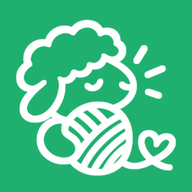
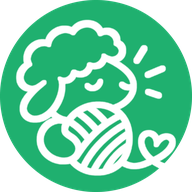
Agenda: ícono de la app redondo como las otras casas (#436)
Claude-Session: https://claude.ai/code/session_01U9SAsfVct6L94yoocG63si

diff --git a/herramientas/generar_iconos_app.py b/herramientas/generar_iconos_app.py
@@ -57,7 +57,7 @@ if __name__ == '__main__':
         circulo(dibujo(1024, color, 0.86 if casa == 'agenda' else 0.76)).resize((256, 256), Image.LANCZOS).save(os.path.join(R, fav), optimize=True)
         dibujo(720, color, 0.86 if casa == 'agenda' else 0.74).resize((180, 180), Image.LANCZOS).convert('RGB').save(os.path.join(R, apple), optimize=True)
         for lado in (192, 512):
-            if casa == 'agenda': dibujo(1024, color, 0.84).resize((lado, lado), Image.LANCZOS).save(os.path.join(R, 'img', 'app', f'icono-{casa}-{lado}.png'), optimize=True)   # 29-oct, pedido de Sara: Windows lo muestra cuadrado, así que lleno y con la ovejita más grande
+            if casa == 'agenda': circulo(dibujo(1024, color, 0.84)).resize((lado, lado), Image.LANCZOS).save(os.path.join(R, 'img', 'app', f'icono-{casa}-{lado}.png'), optimize=True)   # 29-oct: redondo, esquinas transparentes, ovejita grande (pedido de Sara)
             else: circulo(dibujo(1024, color, 0.76)).resize((lado, lado), Image.LANCZOS).save(os.path.join(R, 'img', 'app', f'icono-{casa}-{lado}.png'), optimize=True)
         dibujo(1024, color, 0.58).resize((512, 512), Image.LANCZOS).convert('RGB').save(os.path.join(R, 'img', 'app', f'icono-{casa}-maskable-512.png'), optimize=True)
         base = circulo(dibujo(1024, color, 0.86))

diff --git a/CLAUDE.md b/CLAUDE.md
@@ -21,7 +21,7 @@ Sitio estático en HTML/CSS/JS publicado con GitHub Pages desde la rama `main` (
 - **Agenda para tejedoras, rediseño del 27-oct-2026 (pedido de Sara; antes «Agenda de Rosina»; la dirección sigue siendo `/agenda-rosina.html`):** el código nuevo está en `js/agenda/` y `css/agenda-fichas.css`, y se conecta con el script en línea de `agenda-rosina.html` por `window.lrAgendaNucleo` (tablas, datos, guardar, leerFecha) y el evento `agenda-guardada`. **Los datos siguen con los mismos nombres de siempre** (`ag-p1-cliente`…, en `localStorage.rosinaAgenda`), así el calendario, el tablero, las copias, la nube y los importadores no cambian. Piezas: `fichas.js` (cada renglón de una tabla es una **ficha desplegable**: se ve solo la que se llena, las demás quedan cerradas en lista con su título y etiquetas; «Agregar ficha», borrar sube las siguientes; estados y alarmas de pedidos y proyectos; agujas con fecha de compra y sugerencia de cambio; lo cumplido pasa al final; impresión en blanco con 3 fichas vacías; configuración por tabla en `LISTAS`), `formas.js` (casillas de texto ampliables + **versiones**: prioridades del mes, ficha de proyecto, semana, feria y patrón propio guardan cada mes/proyecto/semana como ficha con su nombre en `datos._ver`; la que se ve sigue en los nombres de siempre; el mes y la semana se proponen solos pero no se guardan hasta que la persona escribe), `ventas.js` (ventas por mes: el mes sale de la fecha de cada venta, totales del mes elegido), `anio.js` (Mi año tejiendo: cada mes muestra lo último escrito y abre a página entera), `portada.js` (portada imprimible: fondos de flores, hojas, madejas, Rosina y liso dibujados en el código; nombre de «Esta agenda es de»), `voz.js` (escribir hablando con la Web Speech API del navegador; el audio lo procesa Google/Apple, no Lana Rosa; aviso previo y párrafo en `politicas.html#datos`), `patron.js` (Diseña tu patrón en 7 pasos, vista previa, imprimir y bajar .txt), `tinta.js` (lápiz: trazos con Pointer Events guardados en `datos._tinta`; lápiz digital y mouse dibujan, el dedo solo mueve la página salvo «Dedo»; **falta probar con un lápiz digital real en iPad y Samsung**), `merceria.js` (bloques `.oferta-merceria` que ofrecen materiales reales de la Mercería y los agregan a la lista de compras: si no hay existencias dice «Pronto» y lleva al catálogo y al WhatsApp), `xlsx.js` + `exportar.js` (Exportar a Excel: un libro .xlsx con una hoja por cada hoja con datos, sin librerías). Hojas nuevas: Portada, Mis ideas y Diseña tu patrón (38 hojas desde el 28-oct; si se suma otra, actualizar «Hoja 1 de 38» y «Ver las 38 hojas» en `agenda-rosina.html`). Pruebas con sesión simulada: `herramientas/pruebas/probar_agenda_fichas.py`, `_versiones.py`, `_listas.py`, `_nuevas.py`, `_tinta.py` (ayudas en `agenda_util.py`). **Módulos del 28-oct-2026:** `meses.js` (ventas y gastos por mes), `pedidos.js` (total de la compra = cantidad × valor unidad + envío, saldo y WhatsApp; **«Valor total» se ocultó el 29-oct a pedido de Sara** —era igual a «Total compra»—: el campo `ag-pN-precio` sigue existiendo oculto con el valor de los productos sin envío, y el calendario, el tablero y las deudas usan `totalcompra`); **clienta automática (29-oct, pedido de Sara):** al salir del campo nombre o teléfono de un pedido, `pedidos.js` la registra en `tabla-clientas` (nombre, WhatsApp y «desde» de hoy) si no está (mismo nombre sin tildes ni mayúsculas, o mismo teléfono) y le completa el WhatsApp si le faltaba, `planeador.js` (hoja «Planeador del día»: agrupa lo agendado de `window.lrAgenda.eventos()` y guarda tareas/notas en `datos._dias`; enlaces gratis a Google Calendar; la sincronización con la cuenta está en la tarjeta de `google-calendar.js`), `dibujo.js` (lienzos de dibujo y hoja de puntos en `datos._dib`/`_puntosN`; fotos reducidas a 760 px), `muestras.js` (muestras de lana desde la paleta de la Mercería) y `prendas.js` (prendas a medida: tallas XS–XL de referencia, cálculos y SVG de maniquí y esquema). La paleta es la página `/merceria/paleta-de-colores/` con `obtener_paleta_merceria()` (migración 32, pública a propósito). Pruebas `probar_agenda_negocio/dibujo/planeador/prendas.py`. **Aprende y compra + promociones propias (28-oct-2026, a pedido de Sara):** hoja `#aprende-compra` (`ecosistema.js`): pedir clase personalizada (arma un mensaje de WhatsApp con tema, nivel, personas, horas y horarios; valor estimado = `PRECIO_HORA` $25.000 × horas × personas, el mismo de `/academy/`: si cambia allá, cambiarlo en `ecosistema.js`), cursos virtuales (hoy «Muy pronto»; cuando haya, llenar `CURSOS` en `ecosistema.js`), patrones comprados con descarga (el módulo de cuenta de `agenda-rosina.html` expone `lrComprasPatrones`, `lrComprasEstado` y `lrDescargarPatron`; usa `mis_compras_patrones` y la función `descargar-patron`), patrones a la venta (categoría «Patrones» de `obtener_merceria_web`), YouTube y «Todo Lana Rosa». `promo.js`: bloques `.promo-eco` (`data-hoja`, `data-cuantas`, `data-modo="todas"`) con tarjetas del ecosistema que rotan cada día; catálogo `PROMOS` dentro del archivo; evento de medición `promo_agenda_click` (promo, hoja). Hoy van en Planeador, Portada, Mis ideas y Lista de compras (las hojas que se propusieron como gratis) y no se imprimen. Prueba: `probar_agenda_ecosistema.py`. **Google Calendar se volvió a encender el 29-oct-2026** (ver arriba). **Desde el 29-oct-2026 la agenda está ABIERTA PARA TODOS con su cuenta (`AGENDA_EN_VENTA = true`, decisión de Sara; textos de Academy, hub de Rosina, políticas y `llms.txt` cambiados a «gratis con tu cuenta»; `?gratis=1` muestra el modo de hojas gratis solo en esa visita).** Lo que sigue describe el mecanismo de puerta, que queda listo por si se vuelve a cerrar o se vende. **Puerta de la agenda: «hojas gratis» + agenda completa en construcción (28-oct-2026, decisión de Sara):** la agenda NO está en acceso libre completo: mientras `AGENDA_EN_VENTA = false` (script al inicio de `agenda-rosina.html`) el público (con cuenta, como siempre) ve solo las hojas gratis —`HOJAS_GRATIS` en el script «Modo hojas gratis», justo antes del script principal: Planeador del día, Portada, Aprende y compra, Mis ideas y Lista de compras, con promociones del ecosistema— y un aviso «La agenda completa, en construcción» (`#agenda-aviso-completa`, `.indice-construccion`, `.menu-aviso`). Las demás hojas siguen en la página pero pierden la clase `hoja-agenda` y ganan `hoja-bloqueada` (oculta, no se abre ni se busca ni se imprime); los textos que solo valen con la agenda completa llevan `data-completa`. Quien abre `/agenda-rosina.html?avance=1` la ve completa (queda activado en ese navegador; `?avance=0` lo quita). **Acceso previo por cuenta (28-oct-2026, pedido de Sara):** quien entra con un correo de la tabla `agenda_acceso_previo` (migración 35; solo lectura de su propia fila por seguridad de filas, sin funciones) ve la agenda completa: `js/agenda/acceso.js` lo consulta, guarda la marca `lrAgendaAcceso` en el dispositivo (solo vale con sesión guardada y se vuelve a comprobar en cada visita) y recarga la página una vez; hoy está `jennifer7610@gmail.com`. Para agregar o quitar a alguien: tabla en el panel de Supabase (correo en minúsculas). Prueba: `probar_agenda_acceso.py`. Para cambiar qué hojas son gratis, editar `HOJAS_GRATIS` (y marcar `data-gratis` en el `<article>`, solo informativo). Para ponerla a la venta: decidir cómo se cobra, poner `AGENDA_EN_VENTA = true` (o una compuerta por compra), volver a cambiar los textos «próximamente» (academy, recursos, hub de Rosina, llms.txt, políticas). Las pruebas activan la vista con `lrAgendaAvance` (ver `agenda_util.py`).
 - **Rosina en la agenda apunta a Academy (29-oct-2026):** el botón «Conocer a Rosina» y el enlace del pie de la agenda llevan al hub de Rosina de Academy (`/academy/rosina/`, «Rosina: tutoriales y recursos»), no al de la Tienda (`sincronizar_encabezado.py`: `universo_href['agenda']`). **Cuarta casa: Agenda (29-oct-2026, a pedido de Sara):** `agenda-rosina.html` es la casa `agenda` (verde vivo `#12A66E`/`#0C8556` en botones, `--casa-t1/t2` verdes al final de `css/comun.css`, que además copia para `agenda` todas las reglas de `academy`; si se agrega una regla de Academy a `comun.css`, copiarla para `agenda`). En `sincronizar_encabezado.py`: `CASAS`, `CASA_DE`, `CLASE['agenda']='g-agenda'`, `MENUS['agenda']` (Mi agenda, Aprende y compra, Material gratis de Rosina, Sobre nosotras, Ayuda), `MOVIL['agenda']`, `LOGO`/`LOGO_IMG` (`img/logo-agenda-360.webp`, lo genera `herramientas/generar_logo_agenda.py`), `ICONOS`, `APP`, `PIE_SIMPLE`, `CASAS_ICONO` (📅) y `logo_pie` (logo animado del pie igual al de las otras casas, con «Agenda» en verde claro: `herramientas/logo-animado/componente-agenda.html`, lo genera `generar_logo_animado.py`; desde el 29-oct-2026). Sale en «Nuestras casas» del pie de todas las páginas y como cuarta tarjeta de «Explora el universo Lana Rosa» del inicio. La agenda ya no lleva la barra «Rosina» (sigue en el Rincón de Rosina, que es de Academy). Íconos de las 4 casas: **redondos y con la ovejita grande** (`generar_iconos_app.py`, fuente `herramientas/iconos-app/ovejita-256.png`; verde de la agenda `#1FB06F`).
 - **Fondos de la Portada y cinta de las hojas de la agenda (29-oct-2026, a pedido de Sara):** seis opciones en la Portada: Flores, Hojas, Madejas, Rosina y amigos, Ovejitas y Liso. Los originales horizontales que pasó Sara están en `herramientas/agenda-fondos/originales/` y `herramientas/generar_fondos_agenda.py` genera en `img/agenda/`: la imagen de la **Portada** (`fondo-<f>.webp`, siempre con la forma exacta de la hoja carta 8,5 × 11 para llenar toda la hoja con `background-size: cover`: las acuarelas y los dibujos de madejas se giran a vertical y se unen la parte de arriba y la de abajo —el centro es papel vacío y lo tapa la tarjeta—, por donde la costura corte menos dibujos; los patrones «Rosina y amigos» y «Ovejitas» se rearman: `portada_patron` recorta los dibujos enteros del original y los reparte, más pequeños, en una hoja carta con semilla fija), su miniatura `-mini` y la **cinta** `fondo-<f>-borde.webp`. Si la persona elige un fondo, **todas las hojas** (`#agenda[data-fondo-hojas]` en `css/agenda-fichas.css`) llevan una **cinta delgada pegada por los cuatro lados** (pedido de Sara: «una cinta delgada, que se vea delgada»): un anillo con `border-image` (`slice` 40 = `T` del script; `round`), esquinas en ángulo, líneas finas en las orillas y una sombrita; mide 18 px en computador, 16 en tablet y 12 en celular (`--bw`) y siempre es menor que el relleno de la hoja (28 px), así el contenido no se mueve; se imprime. La cinta se arma así (pedido de Sara, 29-oct: «imágenes más claras, sin desenfoque, y más pequeñas para que se vean completas las hojas, las flores, las madejas»): en los marcos (flores, hojas, madejas) es una **guirnalda de dibujos sueltos y enteros** (cada flor, hoja, madeja, tijera, marcador… se recorta con una caja de `SELLOS` en `generar_fondos_agenda.py`, se limpia lo que no es suyo y se reduce a 22–34 px; las madejas que el borde de la imagen corta —la azul y la amarilla— se completan reflejándolas) y en los patrones con recortes cuyos extremos no cortan dibujos (los animales siempre derechos y enteros); todo va mezclado con el crema (`DESVANECIDO` = 0,42: más claro, no color pleno) y **sin desenfoque**; las líneas de las orillas y las esquinas quedan nítidas. Si se cambia una imagen de `originales/`, revisar las cajas de `SELLOS`. «Liso» no lleva cinta. La clave `rosina` (antes un collage de stickers) ahora es «Rosina y amigos». **Las imágenes de los fondos nuevos son de IA (ChatGPT/Gemini): mismos términos de uso por verificar que las demás.** La imagen «anime» **no se usa**: sus personajes parecen de series con derechos de autor (Gojo, Kaneki, el protector de Naruto). Para sumar un fondo: archivo en `originales/`, línea en `FONDOS` de `generar_fondos_agenda.py`, `FONDOS` e `IMAGENES` en `portada.js` y una regla `--cinta` en `agenda-fichas.css`.
-- **Configuración y colores de la agenda (29-oct-2026, a pedido de Sara):** arriba de `agenda-rosina.html` solo se ve el título y el botón ⚙ «Configuración» (`#agenda-config-btn`); todo lo demás que antes salía al inicio (nombre «Esta agenda es de», imprimir y borrar, copias, nube, .ics, Excel, tarjeta de Google Calendar y color) está en el panel `#agenda-config` (cerrado al entrar; los mismos `id` de siempre). Lo maneja `js/agenda/config.js` (`window.lrAgendaConfig.abrir()`/`cerrar()`; lo usa la vuelta de Google Calendar). **Color (rediseño del 29-oct-2026, pedido de Sara: «todo el círculo cromático»):** en lugar de los 16 colores fijos, una **rueda de colores** (`#ac-rueda`: ángulo = tono, distancia = intensidad) más una barra de claridad, en `js/agenda/config.js` v4: de lo elegido se calculan las variables de color (botón siempre con contraste ≥ 4,5 con texto blanco, texto oscuro ≥ 7, tintes) y se guardan en `localStorage` (`lrAgendaTema = 'libre'`, `lrAgendaColor`, `lrAgendaColorVars`; un script del `<head>` las aplica antes de pintar); «Volver al verde menta» lo quita. Los temas fijos de antes (esmeralda, bosque…, bloques `html[data-tema=…]` de `css/agenda-fichas.css`) se conservan para quien ya los tenía. El panel se cierra con «✕ Cerrar» (arriba), «Cerrar configuración» (abajo), el engranaje o Esc. Las pruebas abren el panel solas (`contexto(..., config_abierta=True)` en `agenda_util.py`); prueba nueva `probar_agenda_config.py`. **Íconos de la agenda:** cuadrados y con la ovejita más grande (`SOLO=agenda python3 herramientas/generar_iconos_app.py`); sin maskable.
+- **Configuración y colores de la agenda (29-oct-2026, a pedido de Sara):** arriba de `agenda-rosina.html` solo se ve el título y el botón ⚙ «Configuración» (`#agenda-config-btn`); todo lo demás que antes salía al inicio (nombre «Esta agenda es de», imprimir y borrar, copias, nube, .ics, Excel, tarjeta de Google Calendar y color) está en el panel `#agenda-config` (cerrado al entrar; los mismos `id` de siempre). Lo maneja `js/agenda/config.js` (`window.lrAgendaConfig.abrir()`/`cerrar()`; lo usa la vuelta de Google Calendar). **Color (rediseño del 29-oct-2026, pedido de Sara: «todo el círculo cromático»):** en lugar de los 16 colores fijos, una **rueda de colores** (`#ac-rueda`: ángulo = tono, distancia = intensidad) más una barra de claridad, en `js/agenda/config.js` v4: de lo elegido se calculan las variables de color (botón siempre con contraste ≥ 4,5 con texto blanco, texto oscuro ≥ 7, tintes) y se guardan en `localStorage` (`lrAgendaTema = 'libre'`, `lrAgendaColor`, `lrAgendaColorVars`; un script del `<head>` las aplica antes de pintar); «Volver al verde menta» lo quita. Los temas fijos de antes (esmeralda, bosque…, bloques `html[data-tema=…]` de `css/agenda-fichas.css`) se conservan para quien ya los tenía. El panel se cierra con «✕ Cerrar» (arriba), «Cerrar configuración» (abajo), el engranaje o Esc. Las pruebas abren el panel solas (`contexto(..., config_abierta=True)` en `agenda_util.py`); prueba nueva `probar_agenda_config.py`. **Íconos de la agenda:** redondos (esquinas transparentes, como las otras casas; v=5 en el manifiesto; quien ya la instaló debe quitar y volver a instalar la app) y con la ovejita más grande (`SOLO=agenda python3 herramientas/generar_iconos_app.py`); sin maskable.
 - **Tutorial de bienvenida de la agenda (antes «tour», 29-oct-2026, a pedido de Sara):** `js/agenda/tour.js` (+ estilos `.tour-*` en `css/agenda-fichas.css`): 8 pasos con un foco que recorta la pantalla y una tarjeta (bienvenida, Configuración, copias, Google Calendar, instalar la app, pestañas y hojas, dictar/lápiz/buscador y funciones avanzadas; si el elemento no está —por ejemplo la tarjeta de Google Calendar sin sesión— el paso sale centrado). Sale solo la primera vez (`localStorage.lrAgendaTour`), se repite con «🧭 Ver el tutorial de bienvenida» (`#agenda-tour-btn`, en Configuración) o `?tour=1`; `?tour=0` lo omite; **no sale con navegadores automáticos (`navigator.webdriver`) salvo `?tour=1`**, así no estorba a las pruebas. Si se agrega una función importante, sumarla al paso 8 (o un paso nuevo y cambiar «de 8»). Prueba: `probar_agenda_tour.py`. Los textos de los pasos 2 a 8 son la redacción de Sara (29-oct). **Rosina en la agenda (29-oct-2026, a pedido de Sara):** el chat de Rosina sale en `agenda-rosina.html` con la casa `agenda` (`js/rosina-chat.js` v10: saludo y sugerencias propios) y `rosina-web` **v30** trae `GUIA_AGENDA` (en `herramientas/rosina-web/index.ts`: nombres exactos de botones, pestañas y hojas) y `ROLES.agenda`; el consumo y las preguntas sin respuesta se miden bajo `academy` porque la tabla solo admite tres casas. **Si cambia algo de la agenda (botones, hojas, colores, número de hojas), actualizar `GUIA_AGENDA` y volver a desplegar `rosina-web`.** Prueba: `probar_rosina_chat.py`.
 - **Herramientas de Rosina dentro de la agenda (29-oct-2026, pedido de Sara):** tiras `.herr-rosina` («🧰 Herramienta(s) de Rosina», enlaces `target=_blank rel=noopener`, `no-imprimir`, estilos al final de `css/agenda-fichas.css`) que llevan al Rincón de Rosina sin perder lo escrito: las 5 hojas de Finanzas del negocio → `/calculadoras-rosina.html#costos`; Ficha de proyecto, Proyectos por tejer, Mis patrones y Lo que aprendí → `/glosario-rosina.html` y `/recursos-rosina.html#abreviaturas`; **Diseña tu patrón** por paso (1: checklist `#checklist` y paletas; 2: `#agujas`, `#lana`, `#muestra`, paletas y checklist; 3: glosario y abreviaturas; 4: `#aumentos`, `#esferas` y glosario); Registro de pausas activas → `/revista/pausas-activas/`. Si cambia un ancla del Rincón, cambiar el enlace. `rosina-web` v30 (`GUIA_AGENDA`). Prueba: `herramientas/pruebas/probar_agenda_herramientas.py` (58, comprueba que cada destino y ancla existan).
 - **Hojas de cada pestaña en una lista desplegable (29-oct-2026, a pedido de Sara):** en `agenda-rosina.html`, las hojas de la pestaña actual (Inicio, Proyectos, Materiales…) se eligen en un `<select>` (`#selector-hoja`/`#selector-hoja-lista`, con «Hojas de Proyectos · 2 de 12»; antes eran muchos botones con ícono, `chips-hojas`). Lo arma `window.lrPintarPestanas` a partir del menú oculto `#menu-hojas-lista`: se rehace solo al cambiar de pestaña (así conserva el foco al cambiar de hoja dentro de la misma), se oculta si la pestaña tiene una sola hoja y no se imprime. El Índice sigue con sus atajos. Prueba: `probar_agenda_selector.py`.
